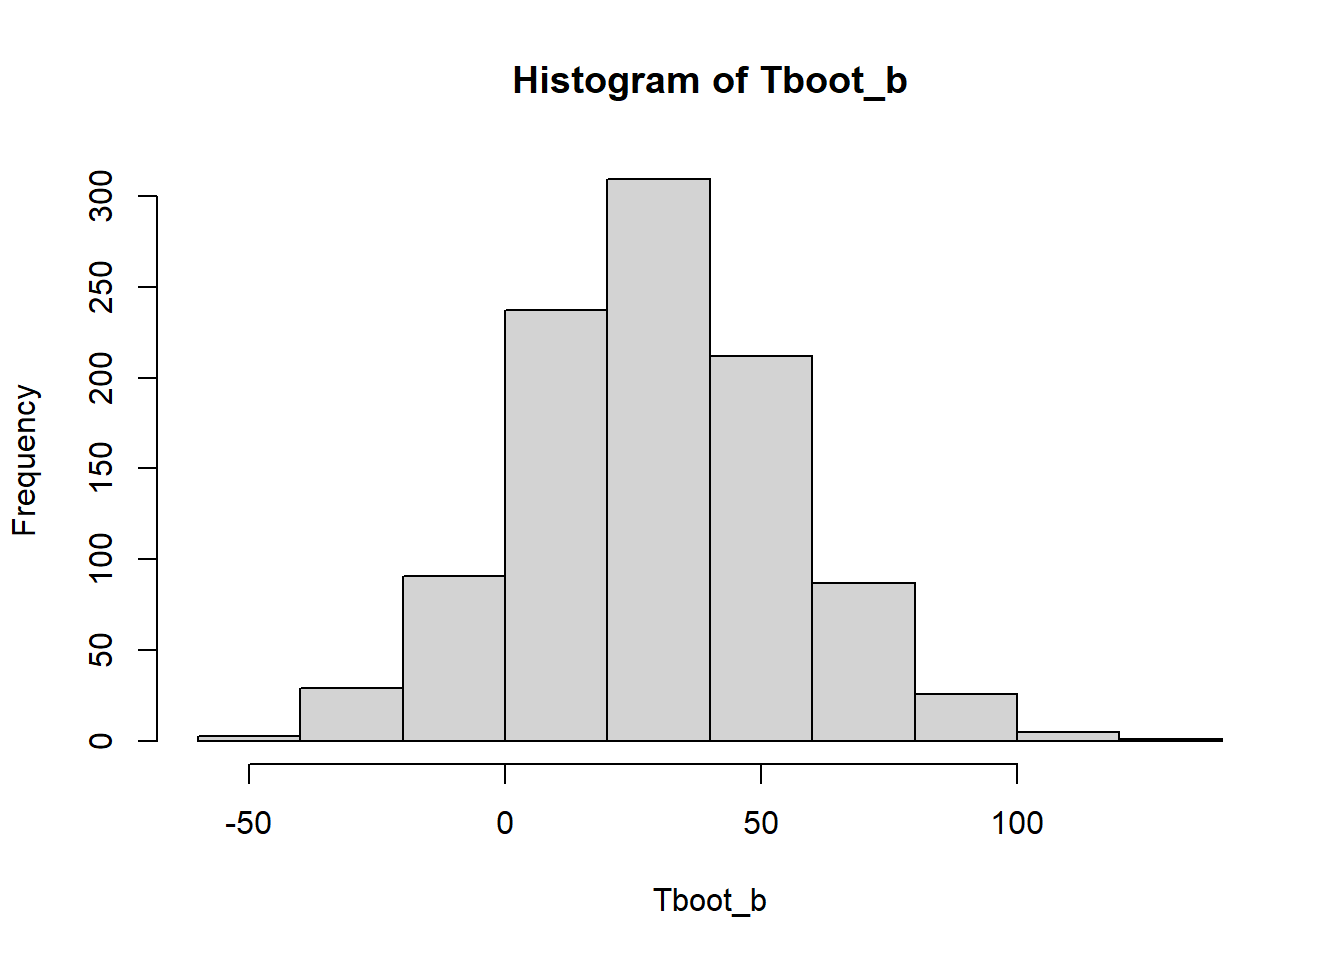
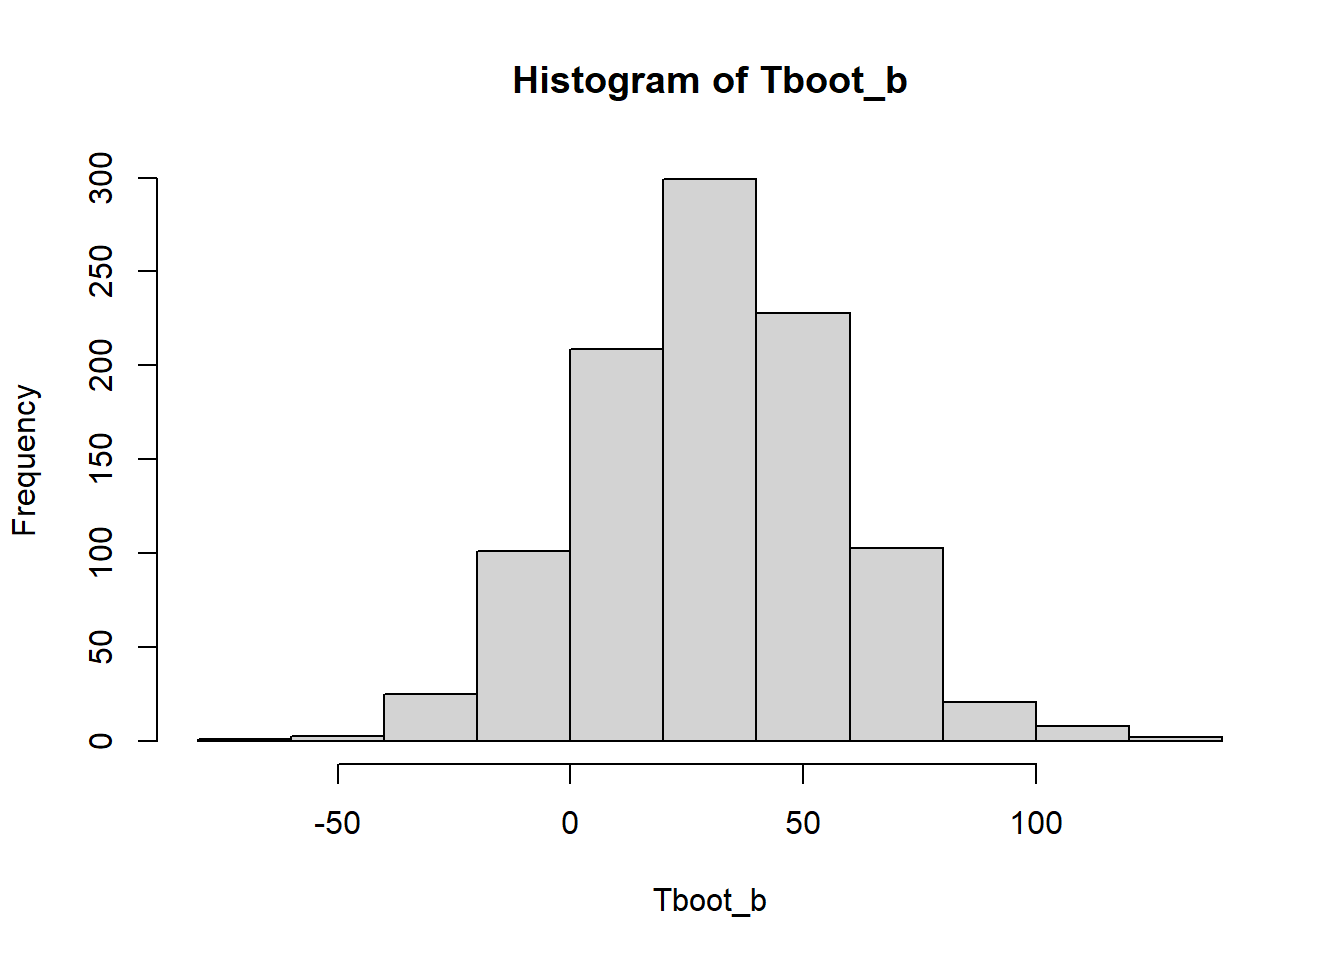
tema 5

diff --git a/lab05a.html b/lab05a.html
@@ -235,8 +235,8 @@ window.Quarto = {
 <span id="cb9-6"><a href="#cb9-6" aria-hidden="true" tabindex="-1"></a>}</span>
 <span id="cb9-7"><a href="#cb9-7" aria-hidden="true" tabindex="-1"></a>Tboot_b[<span class="dv">1</span><span class="sc">:</span><span class="dv">10</span>]</span></code><button title="Copiar al portapapeles" class="code-copy-button"><i class="bi"></i></button></pre></div>
 <div class="cell-output cell-output-stdout">
-<pre><code> [1] 133.71429  56.14286  82.57143  78.14286  64.85714  93.57143  72.42857
- [8] 109.57143 126.28571  80.85714</code></pre>
+<pre><code> [1]  84.00000  86.57143  99.57143  91.28571  90.00000  83.00000 105.42857
+ [8]  88.14286 115.57143  72.14286</code></pre>
 </div>
 <div class="sourceCode cell-code" id="cb11"><pre class="sourceCode r code-with-copy"><code class="sourceCode r"><span id="cb11-1"><a href="#cb11-1" aria-hidden="true" tabindex="-1"></a><span class="fu">hist</span>(Tboot_b)</span></code><button title="Copiar al portapapeles" class="code-copy-button"><i class="bi"></i></button></pre></div>
 <div class="cell-output-display">
@@ -250,17 +250,17 @@ window.Quarto = {
 <section id="sesgo-del-bootstrap" class="level3" data-number="2.2.1">
 <h3 data-number="2.2.1" class="anchored" data-anchor-id="sesgo-del-bootstrap"><span class="header-section-number">2.2.1</span> Sesgo del bootstrap</h3>
 <div class="cell">
-<div class="sourceCode cell-code" id="cb12"><pre class="sourceCode r code-with-copy"><code class="sourceCode r"><span id="cb12-1"><a href="#cb12-1" aria-hidden="true" tabindex="-1"></a>(sesgo_bootstrap <span class="ot">&lt;-</span> <span class="fu">mean</span>(Tboot_b))</span></code><button title="Copiar al portapapeles" class="code-copy-button"><i class="bi"></i></button></pre></div>
+<div class="sourceCode cell-code" id="cb12"><pre class="sourceCode r code-with-copy"><code class="sourceCode r"><span id="cb12-1"><a href="#cb12-1" aria-hidden="true" tabindex="-1"></a>(media_bootstrap <span class="ot">&lt;-</span> <span class="fu">mean</span>(Tboot_b))</span></code><button title="Copiar al portapapeles" class="code-copy-button"><i class="bi"></i></button></pre></div>
 <div class="cell-output cell-output-stdout">
-<pre><code>[1] 87.20814</code></pre>
+<pre><code>[1] 86.69243</code></pre>
 </div>
 <div class="sourceCode cell-code" id="cb14"><pre class="sourceCode r code-with-copy"><code class="sourceCode r"><span id="cb14-1"><a href="#cb14-1" aria-hidden="true" tabindex="-1"></a>estimacion</span></code><button title="Copiar al portapapeles" class="code-copy-button"><i class="bi"></i></button></pre></div>
 <div class="cell-output cell-output-stdout">
 <pre><code>[1] 86.85714</code></pre>
 </div>
-<div class="sourceCode cell-code" id="cb16"><pre class="sourceCode r code-with-copy"><code class="sourceCode r"><span id="cb16-1"><a href="#cb16-1" aria-hidden="true" tabindex="-1"></a>sesgo_bootstrap<span class="sc">-</span>estimacion</span></code><button title="Copiar al portapapeles" class="code-copy-button"><i class="bi"></i></button></pre></div>
+<div class="sourceCode cell-code" id="cb16"><pre class="sourceCode r code-with-copy"><code class="sourceCode r"><span id="cb16-1"><a href="#cb16-1" aria-hidden="true" tabindex="-1"></a>(sesgo_bootstrap <span class="ot">&lt;-</span> media_bootstrap<span class="sc">-</span>estimacion)</span></code><button title="Copiar al portapapeles" class="code-copy-button"><i class="bi"></i></button></pre></div>
 <div class="cell-output cell-output-stdout">
-<pre><code>[1] 0.351</code></pre>
+<pre><code>[1] -0.1647143</code></pre>
 </div>
 </div>
 </section>
@@ -273,11 +273,11 @@ window.Quarto = {
 </div>
 <div class="sourceCode cell-code" id="cb20"><pre class="sourceCode r code-with-copy"><code class="sourceCode r"><span id="cb20-1"><a href="#cb20-1" aria-hidden="true" tabindex="-1"></a>(sdboot <span class="ot">&lt;-</span> <span class="fu">sd</span>(Tboot_b))</span></code><button title="Copiar al portapapeles" class="code-copy-button"><i class="bi"></i></button></pre></div>
 <div class="cell-output cell-output-stdout">
-<pre><code>[1] 23.67553</code></pre>
+<pre><code>[1] 22.59721</code></pre>
 </div>
 <div class="sourceCode cell-code" id="cb22"><pre class="sourceCode r code-with-copy"><code class="sourceCode r"><span id="cb22-1"><a href="#cb22-1" aria-hidden="true" tabindex="-1"></a>estimacion <span class="sc">+</span> <span class="fu">c</span>(<span class="sc">-</span><span class="dv">1</span>,<span class="dv">1</span>)<span class="sc">*</span>cuantil_z <span class="sc">*</span> sdboot</span></code><button title="Copiar al portapapeles" class="code-copy-button"><i class="bi"></i></button></pre></div>
 <div class="cell-output cell-output-stdout">
-<pre><code>[1]  40.45395 133.26034</code></pre>
+<pre><code>[1]  42.56742 131.14687</code></pre>
 </div>
 </div>
 </section>
@@ -310,14 +310,15 @@ window.Quarto = {
 <div class="sourceCode cell-code" id="cb25"><pre class="sourceCode r code-with-copy"><code class="sourceCode r"><span id="cb25-1"><a href="#cb25-1" aria-hidden="true" tabindex="-1"></a><span class="fu">summary</span>(z_star)</span></code><button title="Copiar al portapapeles" class="code-copy-button"><i class="bi"></i></button></pre></div>
 <div class="cell-output cell-output-stdout">
 <pre><code>     Min.   1st Qu.    Median      Mean   3rd Qu.      Max. 
--27.31959  -0.83372  -0.01468  -0.14706   0.73162   5.53566 </code></pre>
+-16.08554  -0.82876   0.02683  -0.10469   0.76720  10.80232 </code></pre>
 </div>
 </div>
 <div class="cell">
-<div class="sourceCode cell-code" id="cb27"><pre class="sourceCode r code-with-copy"><code class="sourceCode r"><span id="cb27-1"><a href="#cb27-1" aria-hidden="true" tabindex="-1"></a>cuantil_t_empirico <span class="ot">&lt;-</span> <span class="fu">quantile</span>(z_star, <span class="dv">1</span> <span class="sc">-</span> <span class="fl">0.05</span> <span class="sc">/</span> <span class="dv">2</span>)</span>
-<span id="cb27-2"><a href="#cb27-2" aria-hidden="true" tabindex="-1"></a>estimacion <span class="sc">+</span><span class="fu">c</span>(<span class="sc">-</span><span class="dv">1</span>,<span class="dv">1</span>) <span class="sc">*</span>cuantil_t_empirico<span class="sc">*</span> sdboot</span></code><button title="Copiar al portapapeles" class="code-copy-button"><i class="bi"></i></button></pre></div>
+<div class="sourceCode cell-code" id="cb27"><pre class="sourceCode r code-with-copy"><code class="sourceCode r"><span id="cb27-1"><a href="#cb27-1" aria-hidden="true" tabindex="-1"></a>cuantil_t_empirico <span class="ot">&lt;-</span> <span class="fu">quantile</span>(z_star, <span class="fu">c</span>(<span class="fl">0.05</span><span class="sc">/</span><span class="dv">2</span>, <span class="dv">1</span><span class="fl">-0.05</span><span class="sc">/</span><span class="dv">2</span>))</span>
+<span id="cb27-2"><a href="#cb27-2" aria-hidden="true" tabindex="-1"></a>estimacion <span class="sc">+</span>cuantil_t_empirico<span class="sc">*</span> sdboot</span></code><button title="Copiar al portapapeles" class="code-copy-button"><i class="bi"></i></button></pre></div>
 <div class="cell-output cell-output-stdout">
-<pre><code>[1]  33.07745 140.63683</code></pre>
+<pre><code>     2.5%     97.5% 
+ 10.24223 134.78094 </code></pre>
 </div>
 </div>
 </section>
@@ -341,12 +342,12 @@ window.Quarto = {
 <div class="sourceCode cell-code" id="cb30"><pre class="sourceCode r code-with-copy"><code class="sourceCode r"><span id="cb30-1"><a href="#cb30-1" aria-hidden="true" tabindex="-1"></a><span class="fu">quantile</span>(Tboot_b,<span class="fl">0.05</span> <span class="sc">/</span> <span class="dv">2</span>)</span></code><button title="Copiar al portapapeles" class="code-copy-button"><i class="bi"></i></button></pre></div>
 <div class="cell-output cell-output-stdout">
 <pre><code>    2.5% 
-43.85714 </code></pre>
+43.84643 </code></pre>
 </div>
 <div class="sourceCode cell-code" id="cb32"><pre class="sourceCode r code-with-copy"><code class="sourceCode r"><span id="cb32-1"><a href="#cb32-1" aria-hidden="true" tabindex="-1"></a><span class="fu">quantile</span>(Tboot_b, <span class="dv">1</span> <span class="sc">-</span> <span class="fl">0.05</span> <span class="sc">/</span> <span class="dv">2</span>)</span></code><button title="Copiar al portapapeles" class="code-copy-button"><i class="bi"></i></button></pre></div>
 <div class="cell-output cell-output-stdout">
 <pre><code>   97.5% 
-136.8607 </code></pre>
+134.4714 </code></pre>
 </div>
 </div>
 </section>
@@ -374,7 +375,7 @@ boot.ci(boot.out = X.boot, type = c("basic", "stud", "perc"))
 
 Intervals : 
 Level      Basic             Studentized          Percentile     
-95%   ( 39.29, 128.43 )   ( 25.60, 162.36 )   ( 45.29, 134.42 )  
+95%   ( 39.59, 130.29 )   ( 31.93, 165.10 )   ( 43.43, 134.12 )  
 Calculations and Intervals on Original Scale</code></pre>
 </div>
 </div>
@@ -401,8 +402,8 @@ Calculations and Intervals on Original Scale</code></pre>
 <span id="cb40-9"><a href="#cb40-9" aria-hidden="true" tabindex="-1"></a>}</span>
 <span id="cb40-10"><a href="#cb40-10" aria-hidden="true" tabindex="-1"></a>Tboot_b[<span class="dv">1</span><span class="sc">:</span><span class="dv">10</span>]</span></code><button title="Copiar al portapapeles" class="code-copy-button"><i class="bi"></i></button></pre></div>
 <div class="cell-output cell-output-stdout">
-<pre><code> [1]  20.61905  17.41270 -14.11111  61.04762  -6.00000  27.93651  50.77778
- [8]  39.33333  40.71429  57.57143</code></pre>
+<pre><code> [1] 32.1269841 35.4920635 42.6190476 33.0952381 32.0158730  6.5555556
+ [7] 33.4920635  0.6031746  4.0793651 10.5714286</code></pre>
 </div>
 </div>
 <div class="cell">
@@ -420,11 +421,11 @@ Calculations and Intervals on Original Scale</code></pre>
 </div>
 <div class="sourceCode cell-code" id="cb45"><pre class="sourceCode r code-with-copy"><code class="sourceCode r"><span id="cb45-1"><a href="#cb45-1" aria-hidden="true" tabindex="-1"></a>(sdboot <span class="ot">&lt;-</span> <span class="fu">sd</span>(Tboot_b))</span></code><button title="Copiar al portapapeles" class="code-copy-button"><i class="bi"></i></button></pre></div>
 <div class="cell-output cell-output-stdout">
-<pre><code>[1] 26.50141</code></pre>
+<pre><code>[1] 27.28183</code></pre>
 </div>
 <div class="sourceCode cell-code" id="cb47"><pre class="sourceCode r code-with-copy"><code class="sourceCode r"><span id="cb47-1"><a href="#cb47-1" aria-hidden="true" tabindex="-1"></a>estimacion <span class="sc">+</span> <span class="fu">c</span>(<span class="sc">-</span><span class="dv">1</span>,<span class="dv">1</span>)<span class="sc">*</span>cuantil_z <span class="sc">*</span> sdboot</span></code><button title="Copiar al portapapeles" class="code-copy-button"><i class="bi"></i></button></pre></div>
 <div class="cell-output cell-output-stdout">
-<pre><code>[1] -21.30689  82.57674</code></pre>
+<pre><code>[1] -22.83648  84.10632</code></pre>
 </div>
 </div>
 </section>
@@ -450,7 +451,7 @@ boot.ci(boot.out = bootstrap_diff, type = c("basic", "stud",
 
 Intervals : 
 Level      Basic             Studentized          Percentile     
-95%   (-21.99,  83.49 )   (-28.41, 104.36 )   (-22.22,  83.26 )  
+95%   (-23.24,  80.38 )   (-29.88, 102.24 )   (-19.11,  84.51 )  
 Calculations and Intervals on Original Scale</code></pre>
 </div>
 </div>

diff --git a/XS3310-I24_17.html b/XS3310-I24_17.html
@@ -684,7 +684,7 @@ code {
 <li><p>Si <span class="math inline">\(x_0=0\)</span>, entonces los segmentos están dados por <span class="math inline">\(B_j = \left[ (j-1)h, jh \right],~~~ j \in \mathbb{Z}\)</span>.</p></li>
 <li><p>Suponga que queremos estimar la densidad de un <span class="math inline">\(x \in B_j\)</span>. La estimación usando el histograma para estimar <span class="math inline">\(f(x)\)</span> es <span class="math display">\[\hat{f}_h(x)=\frac{1}{nh} \sum_{i=1}^n \sum_{j} I(X_i \in B_j) I(x \in B_j)=\frac{1}{nh} \sum_{i=1}^n I(X_i \in B_j)\]</span></p></li>
 <li><p><span class="math inline">\(\hat{f}_h(x)\)</span> es sesgado para estimar <span class="math inline">\(f(x)\)</span>.</p></li>
-<li><p>Calculemos la esperanza del estimador <span class="math inline">\(\hat{f}_h(x)\)</span>. <span class="math display">\[E\left(\hat{f}_h(x)\right)=\frac{1}{nh}\sum_{i=1}^n E\left\lbrace I(X_i \in B_j) \right\rbrace=\frac{1}{nh} n E\left\lbrace I(X_i \in B_j) \right\rbrace=\]</span></p></li>
+<li><p>Calculemos la esperanza del estimador <span class="math inline">\(\hat{f}_h(x)\)</span>. <span class="math display">\[E\left(\hat{f}_h(x)\right)=\frac{1}{nh}\sum_{i=1}^n E\left\lbrace I(X_i \in B_j) \right\rbrace=\frac{1}{nh} n E\left\lbrace I(X_i \in B_j) \right\rbrace\]</span></p></li>
 </ul>
 </section>
 <section class="slide level2">
@@ -930,6 +930,49 @@ code {
 <li><p>No entraremos en detalles sobre los cálculos del sesgo, variancia y el ECM y ECMI.</p></li>
 <li><p>Se puede comprobar que el óptimo ancho del segmento es: <span class="math display">\[h_{opt} \sim n^{-1/5}.\]</span></p></li>
 </ul>
+</section>
+<section id="ejemplo-con-la-distribución-poisson" class="slide level2">
+<h2>Ejemplo con la distribución Poisson</h2>
+<div class="cell">
+<div class="sourceCode cell-code" id="cb44"><pre class="sourceCode numberSource r number-lines code-with-copy"><code class="sourceCode r"><span id="cb44-1"><a href=""></a>x<span class="ot">&lt;-</span><span class="fu">rpois</span>(<span class="at">n=</span><span class="dv">100</span>, <span class="at">lambda=</span> <span class="dv">10</span>)</span>
+<span id="cb44-2"><a href=""></a>df<span class="ot">&lt;-</span><span class="fu">data.frame</span>(x)</span>
+<span id="cb44-3"><a href=""></a><span class="fu">ggplot</span>(df, <span class="fu">aes</span>(<span class="at">x =</span> x)) <span class="sc">+</span></span>
+<span id="cb44-4"><a href=""></a>  <span class="fu">geom_histogram</span>(<span class="at">binwidth =</span> <span class="dv">2</span>) <span class="sc">+</span></span>
+<span id="cb44-5"><a href=""></a>  <span class="fu">theme_minimal</span>()</span></code><button title="Copy to Clipboard" class="code-copy-button"><i class="bi"></i></button></pre></div>
+
+</div>
+<img data-src="XS3310-I24_17_files/figure-revealjs/unnamed-chunk-29-1.png" width="576" class="r-stretch"></section>
+<section class="slide level2">
+
+<div class="columns">
+<div class="column" style="width:50%;">
+<div class="cell">
+<div class="sourceCode cell-code" id="cb45"><pre class="sourceCode numberSource r number-lines code-with-copy"><code class="sourceCode r"><span id="cb45-1"><a href=""></a><span class="fu">ggplot</span>(df, <span class="fu">aes</span>(<span class="at">x =</span> x)) <span class="sc">+</span></span>
+<span id="cb45-2"><a href=""></a>  <span class="fu">geom_density</span>(<span class="at">kernel=</span><span class="st">"gaussian"</span>,<span class="at">bw=</span><span class="fl">0.5</span>) <span class="sc">+</span></span>
+<span id="cb45-3"><a href=""></a>  <span class="fu">theme_minimal</span>()</span></code><button title="Copy to Clipboard" class="code-copy-button"><i class="bi"></i></button></pre></div>
+<div class="cell-output-display">
+<div>
+<figure>
+<p><img data-src="XS3310-I24_17_files/figure-revealjs/unnamed-chunk-30-1.png" width="576"></p>
+</figure>
+</div>
+</div>
+</div>
+</div><div class="column" style="width:50%;">
+<div class="cell">
+<div class="sourceCode cell-code" id="cb46"><pre class="sourceCode numberSource r number-lines code-with-copy"><code class="sourceCode r"><span id="cb46-1"><a href=""></a><span class="fu">ggplot</span>(df, <span class="fu">aes</span>(<span class="at">x =</span> x)) <span class="sc">+</span></span>
+<span id="cb46-2"><a href=""></a>  <span class="fu">geom_density</span>(<span class="at">kernel=</span><span class="st">"gaussian"</span>,<span class="at">bw=</span><span class="fl">1.5</span>) <span class="sc">+</span></span>
+<span id="cb46-3"><a href=""></a>  <span class="fu">theme_minimal</span>()</span></code><button title="Copy to Clipboard" class="code-copy-button"><i class="bi"></i></button></pre></div>
+<div class="cell-output-display">
+<div>
+<figure>
+<p><img data-src="XS3310-I24_17_files/figure-revealjs/unnamed-chunk-31-1.png" width="576"></p>
+</figure>
+</div>
+</div>
+</div>
+</div>
+</div>
 </section>
 <section id="qué-discutimos-hoy" class="slide level2">
 <h2>¿Qué discutimos hoy?</h2>

diff --git a/XS3310-I24_16.html b/XS3310-I24_16.html
@@ -718,7 +718,7 @@ code {
 <ol type="1">
 <li><strong>IC estándar:</strong> Utilizamos el resultado del TLC para decir que <span class="math inline">\(\hat{\theta}\)</span> es distribuido aproximadamente normal con media <span class="math inline">\(\theta\)</span> y variancia <span class="math inline">\(\operatorname{ee}(\hat{\theta})^2\)</span>. Entonces, un IC <span class="math inline">\((1-\alpha)\)</span> aproximado para <span class="math inline">\(\theta\)</span> está dado por:</li>
 </ol>
-<p><span class="math display">\[\hat{\theta} \pm z_{\alpha/2} \hat{\operatorname{ee}}_{boot}(\hat{\theta})\]</span></p>
+<p><span class="math display">\[\hat{\theta} \pm z_{1-\alpha/2} \hat{\operatorname{ee}}_{boot}(\hat{\theta})\]</span></p>
 </section>
 <section class="slide level2">
 
